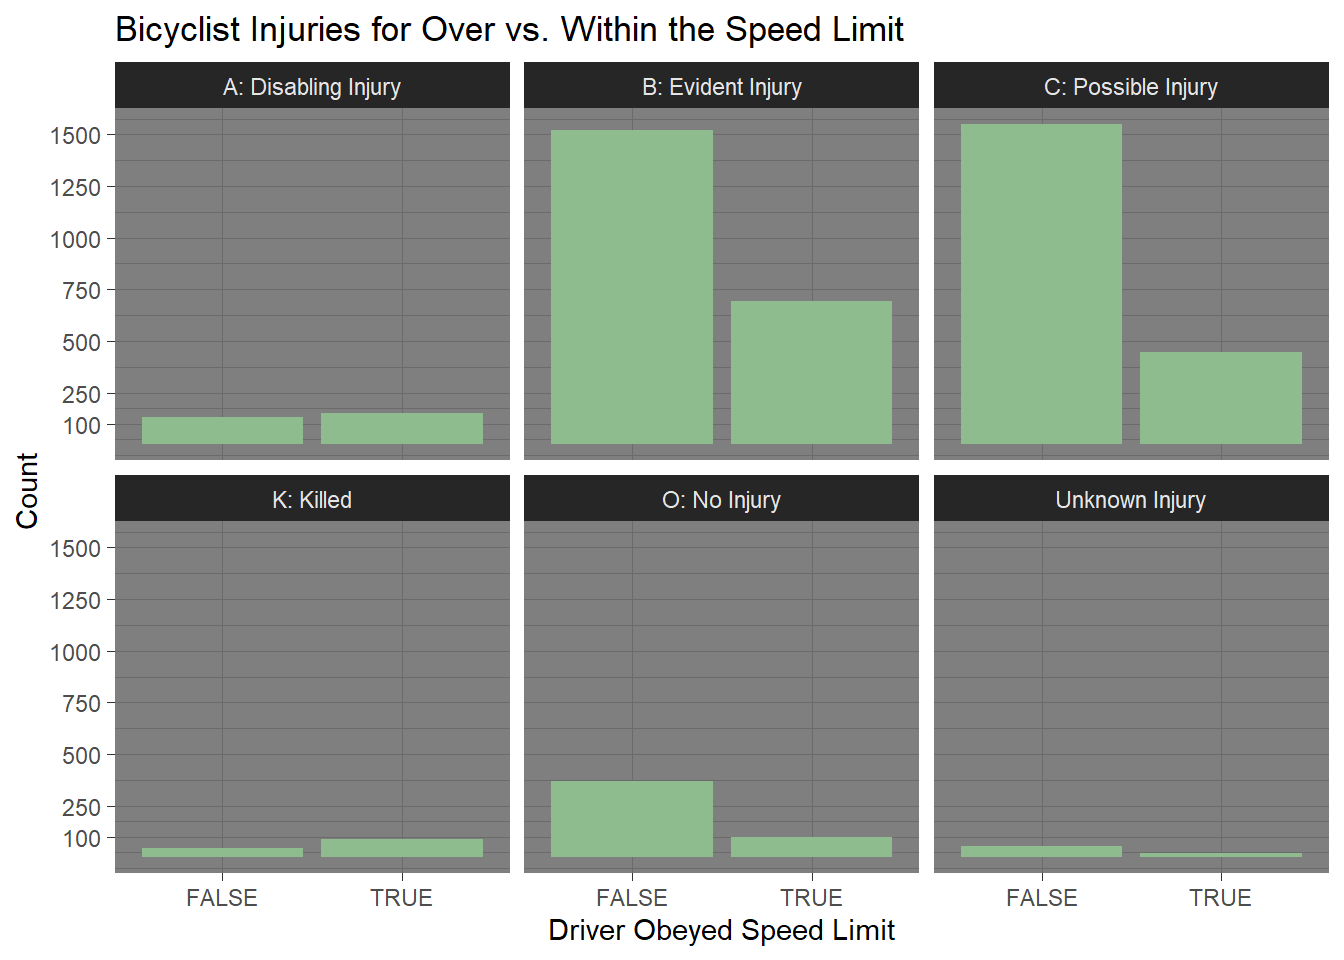
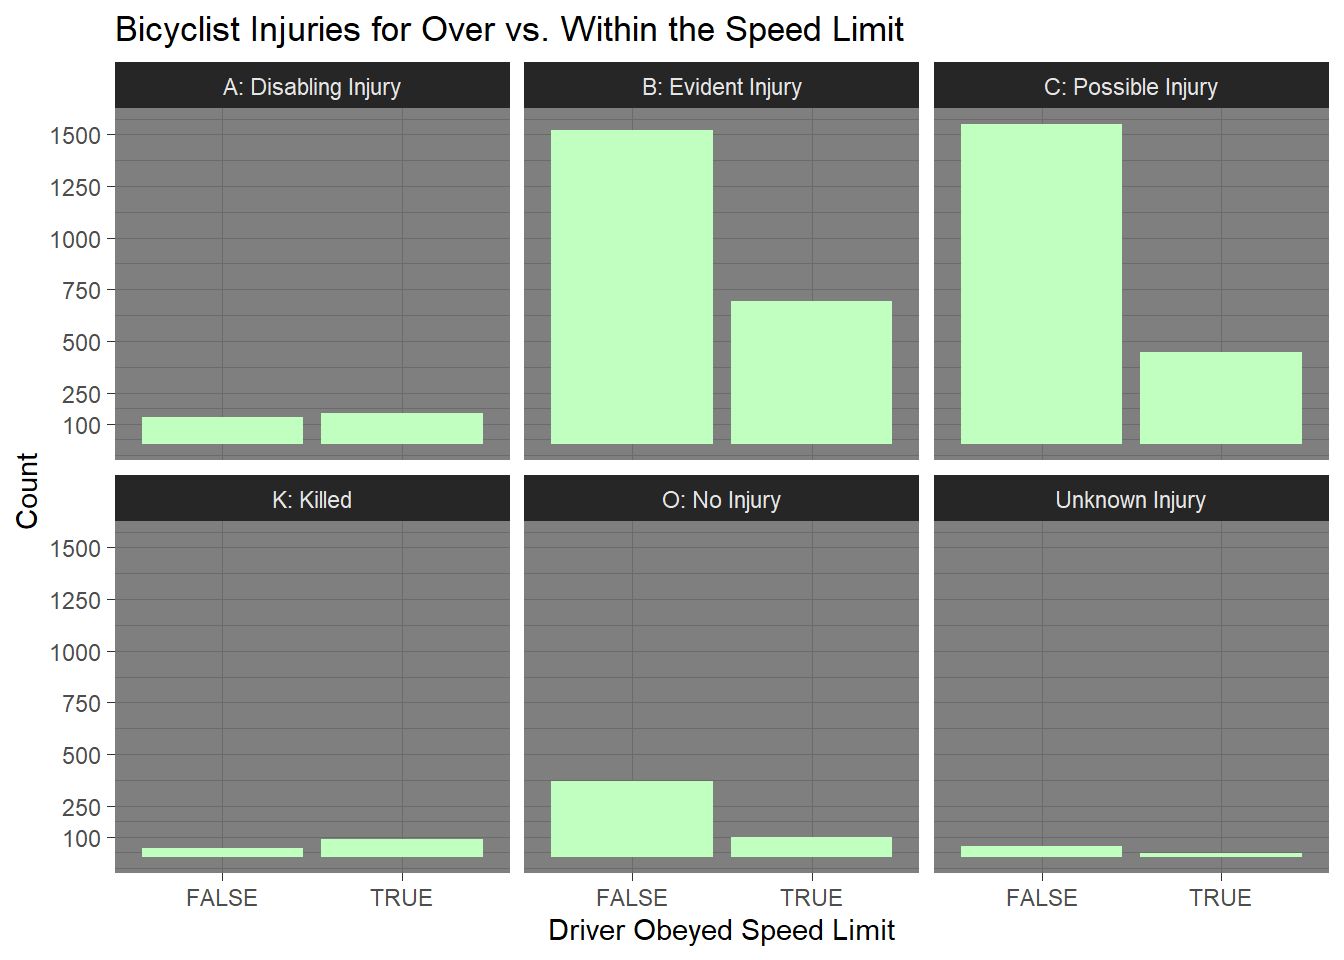
prj

diff --git a/content/posts/2021-06-22-final-project-ggplot2-plots-shiny-apps-and-conclusion/index.html b/content/posts/2021-06-22-final-project-ggplot2-plots-shiny-apps-and-conclusion/index.html
@@ -148,7 +148,7 @@ bikeAgePlot / drveAgePlot + plot_layout(guides = &#39;collect&#39;)</code></pre>
 <div id="plot-3" class="section level3">
 <h3>Plot 3</h3>
 <pre class="r"><code>ggplot(bicycle, aes(ObeyingSpLimit)) + 
-  geom_bar(fill = &#39;darkseagreen&#39;) +
+  geom_bar(fill = &#39;darkseagreen1&#39;) +
   facet_wrap(~ BikerInjury, ncol = 3) +
   scale_y_continuous(breaks = c(100, 1:6 * 250)) +
   theme_dark() +
@@ -160,7 +160,7 @@ bikeAgePlot / drveAgePlot + plot_layout(guides = &#39;collect&#39;)</code></pre>
 <h3>Plot 4</h3>
 <pre class="r"><code>bicycle %&gt;% filter(DriverInjury != &#39;O: No Injury&#39;) %&gt;%
   ggplot(aes(ObeyingSpLimit)) + 
-  geom_bar(fill = &#39;darkseagreen&#39;) +
+  geom_bar(fill = &#39;darkseagreen3&#39;) +
   facet_wrap(~ DriverInjury, ncol = 3) +
   theme_dark() +
   labs(title = &#39;Driver Injuries for Over vs. Within the Speed Limit*&#39;,
@@ -203,7 +203,13 @@ plotA / plotB + plot_annotation(
 </div>
 <div id="plot-7" class="section level3">
 <h3>Plot 7</h3>
-<p>ggplot(filter(bicycle, RoadCondition != ‘Dry’), aes(RoadCondition)) + geom_bar()</p>
+<pre class="r"><code>ggplot(filter(bicycle, RoadCondition != &#39;Dry&#39;), aes(RoadCondition)) + geom_bar(fill = &#39;darkseagreen2&#39;) + 
+  labs(title = &#39;Bicycle Crashes by Road Condition&#39;,
+       caption = &#39;Does not include &quot;Dry&quot;&#39;,
+       x = &#39;Road Condition&#39;,
+       y = &#39;Count&#39;) +
+  theme_dark()</code></pre>
+<p><img src="{{< blogdown/postref >}}index_files/figure-html/unnamed-chunk-6-1.png" width="672" /></p>
 </div>
 <div id="plot-8" class="section level3">
 <h3>Plot 8</h3>
@@ -217,7 +223,7 @@ ggplot(ncmap, aes(lon, lat, group = group)) +
              color = &#39;darkseagreen2&#39;) +
   coord_quickmap() + 
   theme_dark()</code></pre>
-<p><img src="{{< blogdown/postref >}}index_files/figure-html/unnamed-chunk-6-1.png" width="672" /></p>
+<p><img src="{{< blogdown/postref >}}index_files/figure-html/unnamed-chunk-7-1.png" width="672" /></p>
 </div>
 <div id="plot-9" class="section level3">
 <h3>Plot 9</h3>
@@ -230,7 +236,7 @@ ggplot(nccounties, aes(lon, lat, group = group)) +
              alpha = .25,
              color = &#39;darkseagreen2&#39;) +
   coord_quickmap()</code></pre>
-<p><img src="{{< blogdown/postref >}}index_files/figure-html/unnamed-chunk-7-1.png" width="672" /></p>
+<p><img src="{{< blogdown/postref >}}index_files/figure-html/unnamed-chunk-8-1.png" width="672" /></p>
 </div>
 <div id="plot-10" class="section level3">
 <h3>Plot 10</h3>
@@ -259,14 +265,14 @@ ggplot() +
            size = 2) +
   annotate(geom = &#39;text&#39;, x = -77.1, y = 33.9, label = &#39;Winston-Salem&#39;,
            hjust = &#39;left&#39;)</code></pre>
-<p><img src="{{< blogdown/postref >}}index_files/figure-html/unnamed-chunk-8-1.png" width="672" /></p>
+<p><img src="{{< blogdown/postref >}}index_files/figure-html/unnamed-chunk-9-1.png" width="672" /></p>
 </div>
 </div>
 <div id="shiny-apps" class="section level2">
 <h2>Shiny Apps</h2>
-<div id="app-1" class="section level3">
-<h3>App 1</h3>
-<iframe src="https://hallc.shinyapps.io/bicycle1/" width="1100" height="1200" style="border:none;">
+<div id="organized-by-tabs" class="section level3">
+<h3>Organized by Tabs</h3>
+<iframe src="https://hallc.shinyapps.io/bicycle1/" width="1200" height="1200" style="border:none;">
 </iframe>
 </div>
 </div>
